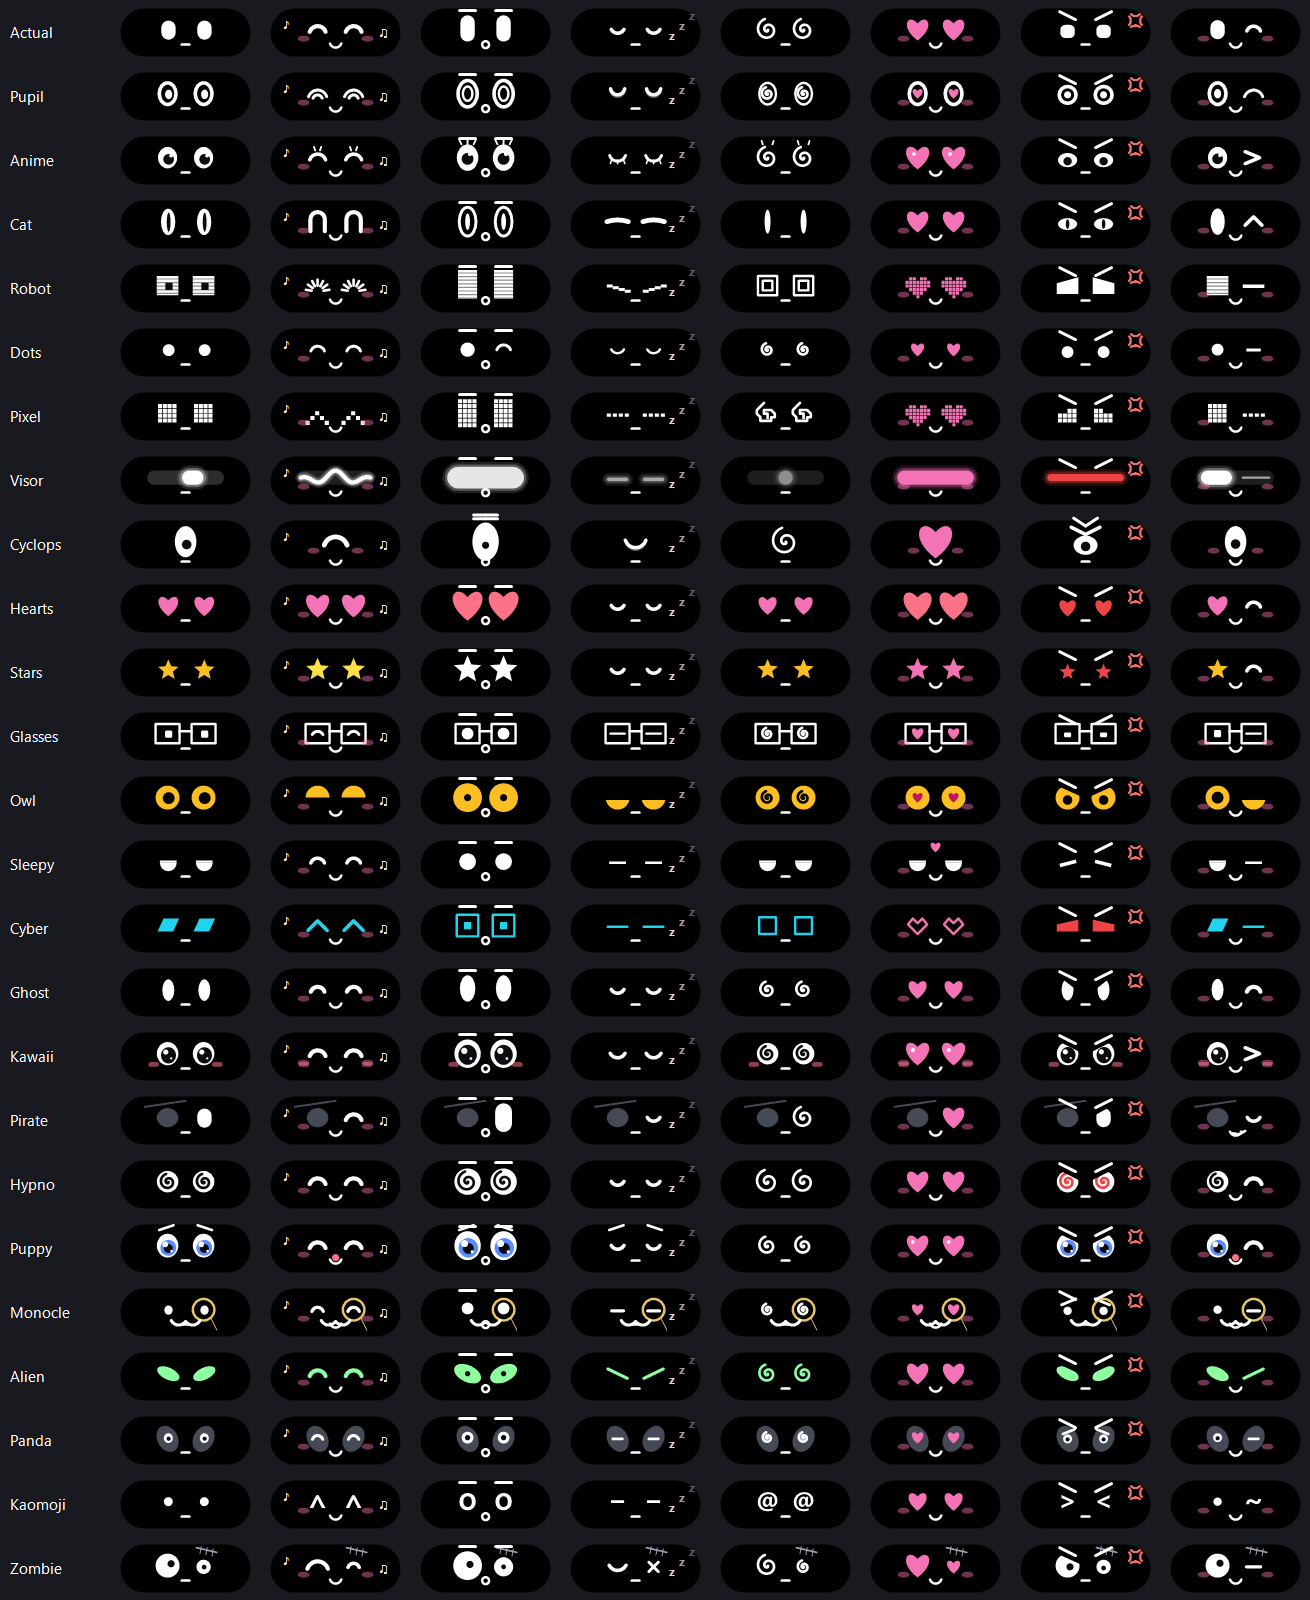
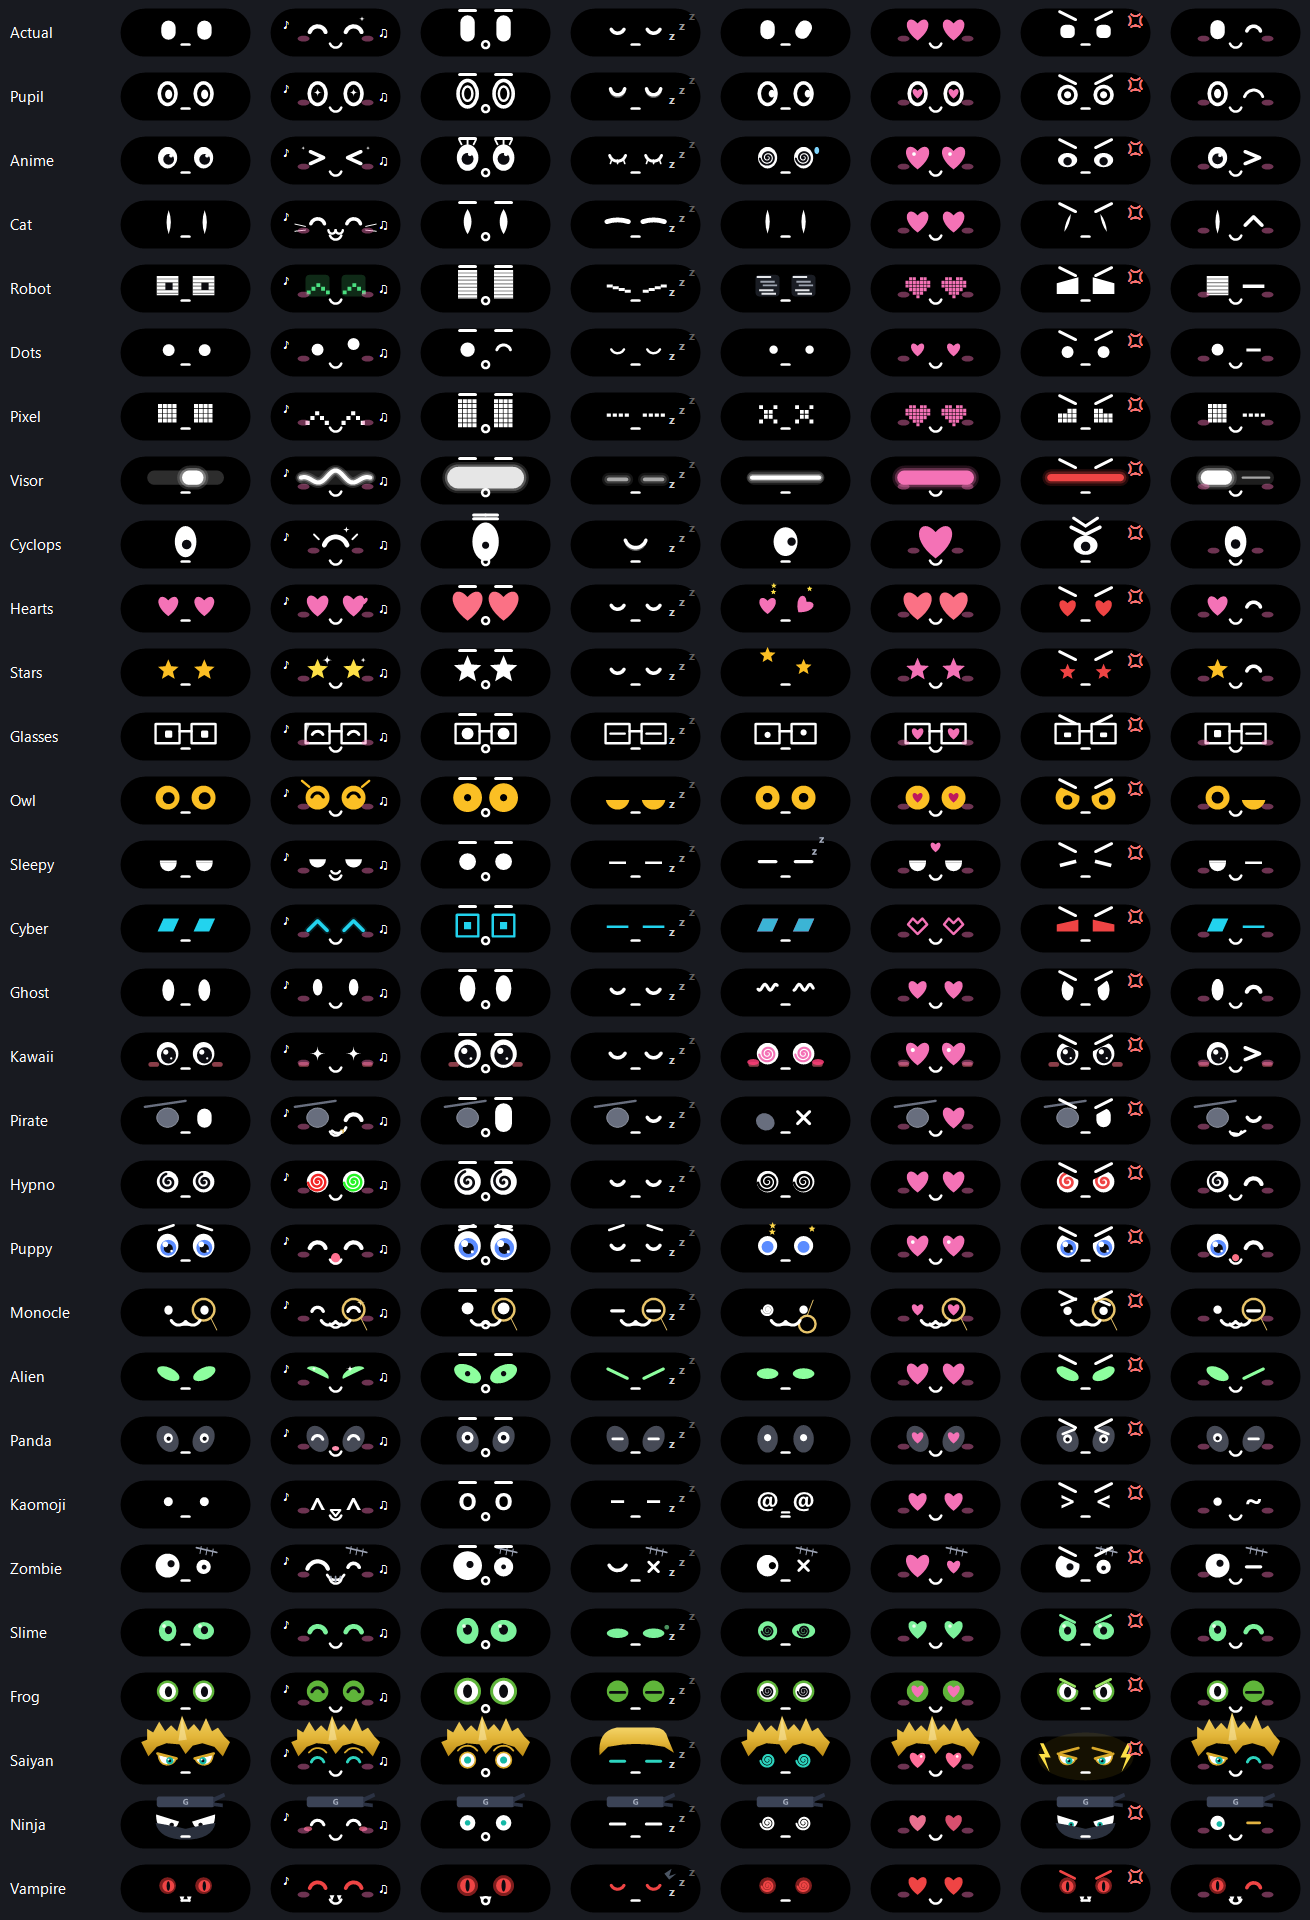
Novedades de la 1.4.2: 30 ojitos, hora en 12 o 24 h y PCs con ARM

diff --git a/README.md b/README.md
@@ -19,6 +19,19 @@
 
 > ℹ **¿Ya la tenías instalada (versión 1.3.2 o anterior)?** Descarga e instala la versión nueva a mano una vez: el buscador de actualizaciones de esas versiones no veía las nuevas. Desde la 1.3.3 se actualiza sola.
 
+## ✨ Novedades de la 1.4.2
+
+### 5 ojitos más: ya son 30
+**Slime, Rana, Saiyajin, Ninja y Vampiro**, cada uno con sus 8 caras. Y los 25 de antes estrenan **feliz y mareado con personalidad**: el fantasma flota y se derrite, el búho voltea la cabeza, el monóculo se resbala, el pirata enseña su diente de oro… El gato ahora es **pura pupila**.
+
+<p align="center"><img src="imagenes/ojitos-nuevos.png" width="860" alt="Los 5 ojitos nuevos con sus 8 caras"></p>
+
+### Y más
+- **Hora en 12 o 24 horas:** en automático usa el mismo formato que Windows (reloj 3D, isla, agenda y widgets). También puedes elegirlo en **Ajustes › Tiempo**.
+- **Mi ciudad para el clima:** si el clima automático te ubica mal, elige tu ciudad.
+- **Se actualiza sola:** las versiones nuevas se instalan cuando no estás usando la PC (y nunca a media partida).
+- **PCs con Snapdragon (ARM):** las islas de la barra de tareas ahora también funcionan ahí.
+- **Herramientas en Ajustes:** captura, calculadora y bloquear también desde **Ajustes › Herramientas**.
 ## ✨ Novedades de la 1.4.0
 
 ### 16 skins para la isla y la barra
@@ -70,9 +83,9 @@ Cuando la isla está cerrada puede mostrar unos ojitos que te siguen con la mira
 
 <p align="center"><img src="imagenes/ojitos.png" width="540" alt="Los 9 estilos de ojitos"></p>
 
-25 estilos (Actual, Con pupila, Anime, Gato, Robot, Puntitos, Pixel, Visor LED, Cíclope, Corazones, Estrellas, Lentes, Búho, Somnoliento, Ciber, Fantasma, Kawaii, Pirata, Espiral, Cachorro, Monóculo, Alien, Panda, Kaomoji y Zombi), 5 colores, cejas, boquita y rubor.
+30 estilos (Actual, Con pupila, Anime, Gato, Robot, Puntitos, Pixel, Visor LED, Cíclope, Corazones, Estrellas, Lentes, Búho, Somnoliento, Ciber, Fantasma, Kawaii, Pirata, Espiral, Cachorro, Monóculo, Alien, Panda, Kaomoji, Zombi, Slime, Rana, Saiyajin, Ninja y Vampiro), 5 colores, cejas, boquita y rubor.
 
-<p align="center"><img src="imagenes/ojitos-estilos.png" width="700" alt="Los 25 estilos con sus 8 caras"></p>
+<p align="center"><img src="imagenes/ojitos-estilos.png" width="700" alt="Los 30 estilos con sus 8 caras"></p>
 
 Con música sonando, la carita se pone feliz junto al ecualizador:
 
